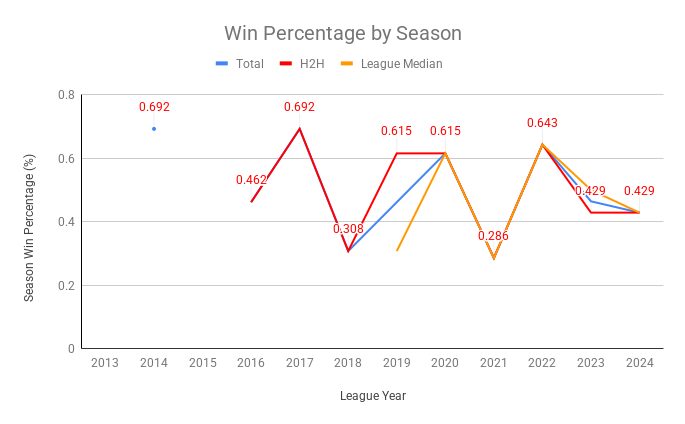
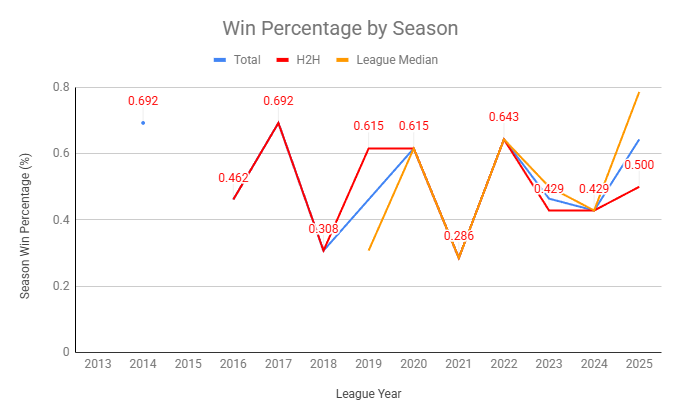
Add files via upload

diff --git a/history.html b/history.html
@@ -275,6 +275,8 @@
     <p class="mt-4 text-gray-700"><strong>2023</strong><br>The 2023 season saw the return of a key competitor. After a four-year absence from the league, Taryn Wilson reclaimed the team that she once gave up to allow Steven Sennewald to join the league. This season also included another fun rule change, introducing the concept of Free Agent Acquisition Budgets (FAAB) to the waiver claim process. This brought a whole new level of chaos to waiver wire days, giving every team the ability to add anyone they wanted as long as they were the highest bidder. Ron Wilson won his third championship with Dewey DewHickeys, despite a rocky regular season where he needed the League Median wins to help him secure a playoff spot. He defeated Riley Kuhl's Ludgate's Squad in the final, a team that had the second best regular season record at 10-4. This championship solidified Ron as the all-time leader in TFFL championships.</p>
     <p class="mt-4 text-gray-700"><strong>2024</strong><br>This season marked the formation of a new co-owner duo as Josh Sanchez officially joined forces with Taryn to form the team Amon the Run. Josh had begun to assist Taryn with her team in the previous season, but jumped fully on board in the summer leading up to their engagement. Also, TFFL finally gave Kickers the boot (get it?), which was probably long overdue. In a major turnaround, Zach Loya's We Stink went from finishing 11th the previous year to winning the championship, following a 10-4 regular season. This was the first strong showing from Zach since joining the league and one of the biggest worst to first stories the league has ever seen. As far as league records can prove, this was the first team in TFFL history to start the season with the first overall pick that ended in a championship. Taylor Wilson's WA Whatchamacallits also had a strong season, finishing 2nd with a 11-3 regular season record before the Commissioner's Curse bit him again.</p>
 </section>
+	<p class="mt-4 text-gray-700"><strong>2025</strong><br>The 2025 TFFL season was defined by total dominance from The Pretenders division in the regular season, culminating in a dramatic postseason run that crowned Riley as league champion. Stephen ruled the regular season with a stellar 11–3 record and league-high points total, earning a first-round playoff bye alongside division winner Jose. However, the postseason turned into an absolute heart-stopper in the semifinals, where both matchups came down to the thinnest margins imaginable. Riley dethroned top-seeded Stephen by less than a single point, while Taryn & Josh pulled off an unbelievable 0.05-point razor-thin victory over Jose to stamp their ticket to the finals. After surviving that semifinal thriller, Riley rode the momentum into Week 17 to deliver a dominant final performance and secure the championship trophy, his first in league history.</p>
+</section>
 
         <section id="champions" class="card">
             <h2 class="text-2xl font-bold mb-4 border-b pb-2">Championship History</h2>
@@ -288,6 +290,7 @@
                         </tr>
                     </thead>
                     <tbody>
+                        <tr><td>2025</td><td>Riley Kuhl</td><td>Full Send</td></tr>
                         <tr><td>2024</td><td>Zach Loya</td><td>We Stink</td></tr>
                         <tr><td>2023</td><td>Ron Wilson</td><td>Dewey DewHickeys</td></tr>
                         <tr><td>2022</td><td>Jason Zamora</td><td>Henry Given Sunday</td></tr>
@@ -324,18 +327,18 @@
                 </tr>
             </thead>
             <tbody>
-                <tr><td>Taylor Wilson</td><td>12</td><td>154-88-0</td><td>97-63-0</td><td>57-25</td><td>0.636</td><td>0.606</td><td>0.695</td><td>1</td><td>4</td></tr>
-                <tr><td>Ron Wilson</td><td>12</td><td>128-114-0</td><td>83-77-0</td><td>45-37</td><td>0.529</td><td>0.519</td><td>0.549</td><td>3</td><td>--</td></tr>
-                <tr><td>Riley Kuhl</td><td>12</td><td>123-119-0</td><td>79-81-0</td><td>44-38</td><td>0.508</td><td>0.494</td><td>0.537</td><td>--</td><td>1</td></tr>
-                <tr><td>Stephen Zamora</td><td>12</td><td>124-117-1</td><td>86-73-1</td><td>38-44</td><td>0.515</td><td>0.541</td><td>0.463</td><td>1</td><td>2</td></tr>
-                <tr><td>Mitch Sennewald</td><td>11</td><td>127-102-0</td><td>76-71-0</td><td>51-31</td><td>0.555</td><td>0.517</td><td>0.622</td><td>2</td><td>2</td></tr>
-                <tr><td>Bill & Kathy Kuhl</td><td>11</td><td>111-117-1</td><td>74-72-1</td><td>37-45</td><td>0.487</td><td>0.507</td><td>0.451</td><td>2</td><td>--</td></tr>
-                <tr><td>Jake Wolfer</td><td>9</td><td>98-105-0</td><td>62-59-0</td><td>36-46</td><td>0.483</td><td>0.512</td><td>0.439</td><td>--</td><td>2</td></tr>
-                <tr><td>Jason Zamora</td><td>10</td><td>107-109-0</td><td>69-65-0</td><td>38-44</td><td>0.495</td><td>0.515</td><td>0.463</td><td>1</td><td>2</td></tr>
-                <tr><td>Israel Flores</td><td>11</td><td>100-129-0</td><td>67-80-0</td><td>33-49</td><td>0.437</td><td>0.456</td><td>0.402</td><td>--</td><td>--</td></tr>
-                <tr><td>Jose Granados</td><td>10</td><td>106-110-0</td><td>66-68-0</td><td>40-42</td><td>0.491</td><td>0.493</td><td>0.488</td><td>--</td><td>--</td></tr>
-                <tr><td>Zach Loya</td><td>6</td><td>72-92-0</td><td>37-45-0</td><td>35-47</td><td>0.439</td><td>0.451</td><td>0.427</td><td>1</td><td>1</td></tr>
-                <tr><td>Taryn & Josh Sanchez</td><td>6</td><td>46-62-0</td><td>30-50-0</td><td>16-12</td><td>0.426</td><td>0.375</td><td>0.571</td><td>--</td><td>--</td></tr>
+                <tr><td>Taylor Wilson</td><td>13</td><td>166-104-0</td><td>102-72-0</td><td>64-32</td><td>0.615</td><td>0.586</td><td>0.667</td><td>1</td><td>4</td></tr>
+                <tr><td>Ron Wilson</td><td>13</td><td>138-132-0</td><td>89-85-0</td><td>49-47</td><td>0.511</td><td>0.511</td><td>0.510</td><td>3</td><td>--</td></tr>
+                <tr><td>Riley Kuhl</td><td>13</td><td>143-127-0</td><td>88-86-0</td><td>55-41</td><td>0.530</td><td>0.506</td><td>0.573</td><td>1</td><td>1</td></tr>
+                <tr><td>Stephen Zamora</td><td>13</td><td>146-123-1</td><td>97-76-1</td><td>49-47</td><td>0.543</td><td>0.561</td><td>0.510</td><td>1</td><td>3</td></tr>
+                <tr><td>Mitch Sennewald</td><td>12</td><td>140-117-0</td><td>83-78-0</td><td>57-39</td><td>0.545</td><td>0.516</td><td>0.594</td><td>2</td><td>2</td></tr>
+                <tr><td>Bill & Kathy Kuhl</td><td>12</td><td>119-137-1</td><td>78-82-1</td><td>41-55</td><td>0.465</td><td>0.488</td><td>0.427</td><td>2</td><td>--</td></tr>
+                <tr><td>Jake Wolfer</td><td>10</td><td>107-124-0</td><td>67-68-0</td><td>40-56</td><td>0.463</td><td>0.496</td><td>0.417</td><td>--</td><td>2</td></tr>
+                <tr><td>Jason Zamora</td><td>10</td><td>125-119-0</td><td>76-72-0</td><td>49-47</td><td>0.512</td><td>0.514</td><td>0.510</td><td>1</td><td>2</td></tr>
+                <tr><td>Israel Flores</td><td>12</td><td>115-142-0</td><td>76-85-0</td><td>39-57</td><td>0.447</td><td>0.472</td><td>0.406</td><td>--</td><td>1</td></tr>
+                <tr><td>Jose Granados</td><td>11</td><td>121-123-0</td><td>75-73-0</td><td>46-50</td><td>0.496</td><td>0.507</td><td>0.479</td><td>--</td><td>1</td></tr>
+                <tr><td>Zach Loya</td><td>7</td><td>83-109-0</td><td>42-54-0</td><td>41-55</td><td>0.432</td><td>0.438</td><td>0.427</td><td>1</td><td>1</td></tr>
+                <tr><td>Taryn & Josh Sanchez</td><td>7</td><td>61-75-0</td><td>37-57-0</td><td>24-18</td><td>0.449</td><td>0.394</td><td>0.571</td><td>--</td><td>--</td></tr>
             </tbody>
         </table>
     </div>
